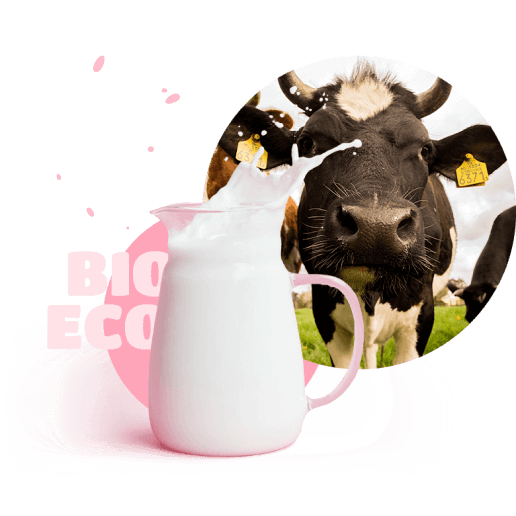
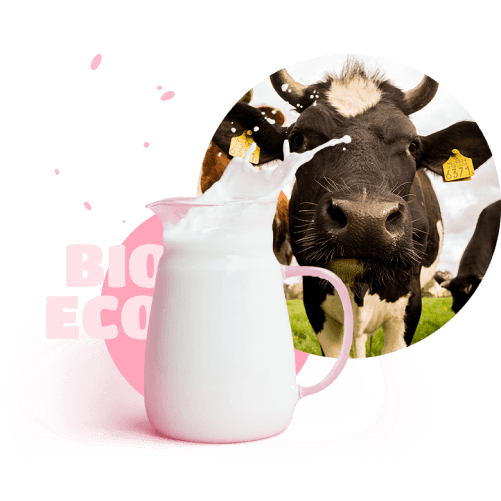
edit

Changed region(s): [[0.8084, 0.479, 0.8383, 0.509], [0.479, 0.2695, 0.509, 0.2994]]

diff --git a/src/partials/about-section.html b/src/partials/about-section.html
@@ -10,7 +10,7 @@
           <li class="hawe-it-list kawe">
 
 
-            <picture>
+            <picture class="hawe-it-list-img">
               <source
                 srcset="./images-all/how-it/how-it-mob.png 1x,./images-all/how-it/how-it-mob@2x.png 2x"
                 media="(max-width: 767px)"
@@ -24,8 +24,8 @@
                 media="(min-width: 1200px)"
               />
               <img
-                class="hawe-it-list-img"
-                src="./images-all/how-it/how-it-mob.png"
+                
+                src="./images-all/how-it/how-it-desk.png"
                 alt="Сow with milk"
               />
             </picture>

diff --git a/src/sass/components/_about-section.scss b/src/sass/components/_about-section.scss
@@ -1,10 +1,11 @@
 .howe-it-background {
     background-repeat: no-repeat;
     background-color: #fff5f6;
-    background-position: 100% 595px;
+    
+    background-position: 100% 74%;
     background-size: 100%;
 
-    background-image: url(url(../images-all/how-it/how-it-fon-mob.png));
+    background-image: url(../images-all/how-it/how-it-fon-mob.png);
     @media screen and (min-device-pixel-ratio: 2),
     (-webkit-min-device-pixel-ratio: 2),
       screen and (min-resolution: 192dpi),
@@ -37,8 +38,6 @@
         }
     }
   }
-  
-
 .hawe-it-main-title {
     margin-bottom: 16px;
     font-family: Titan One;
